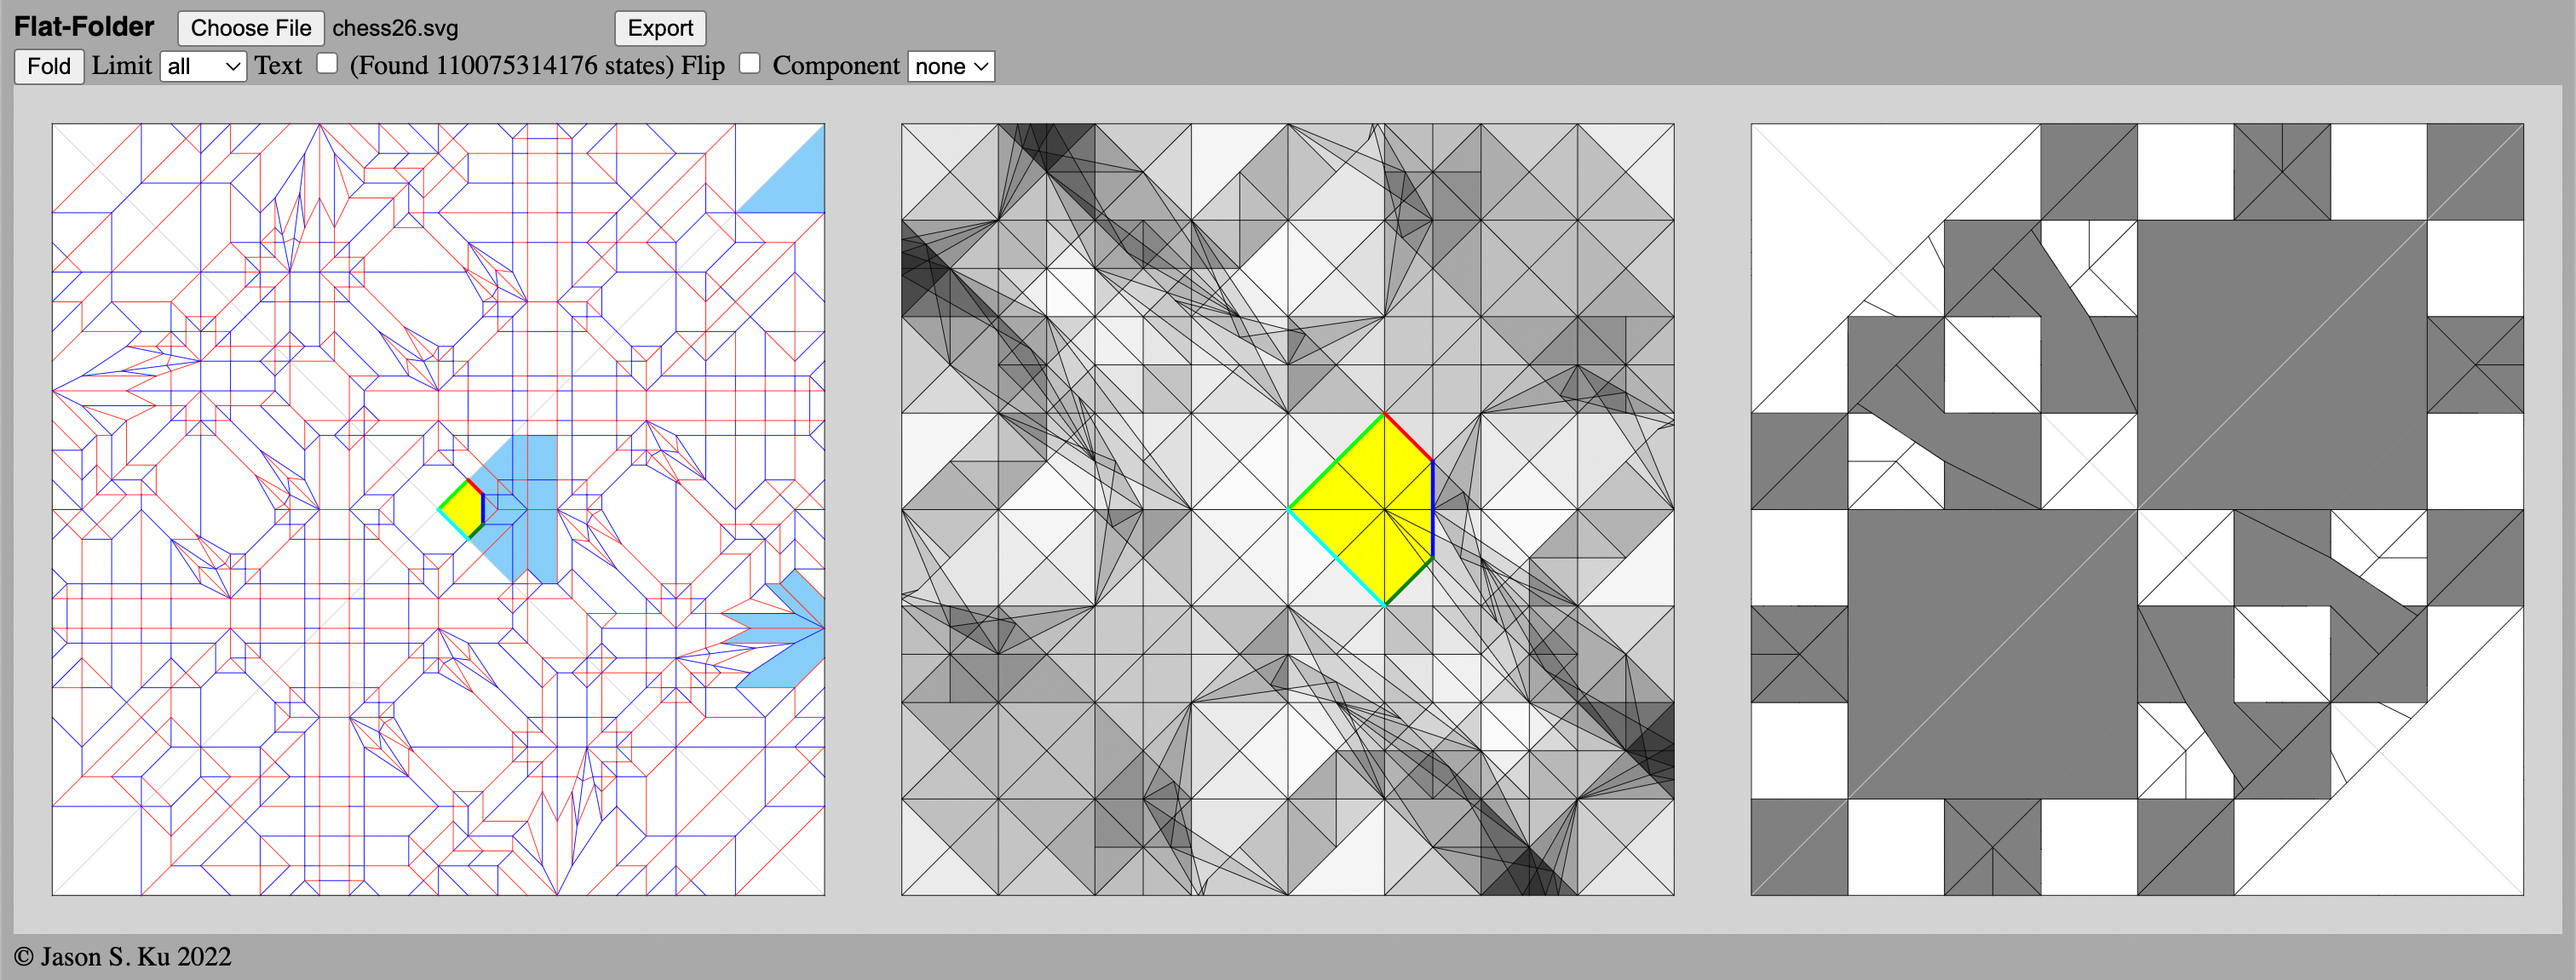
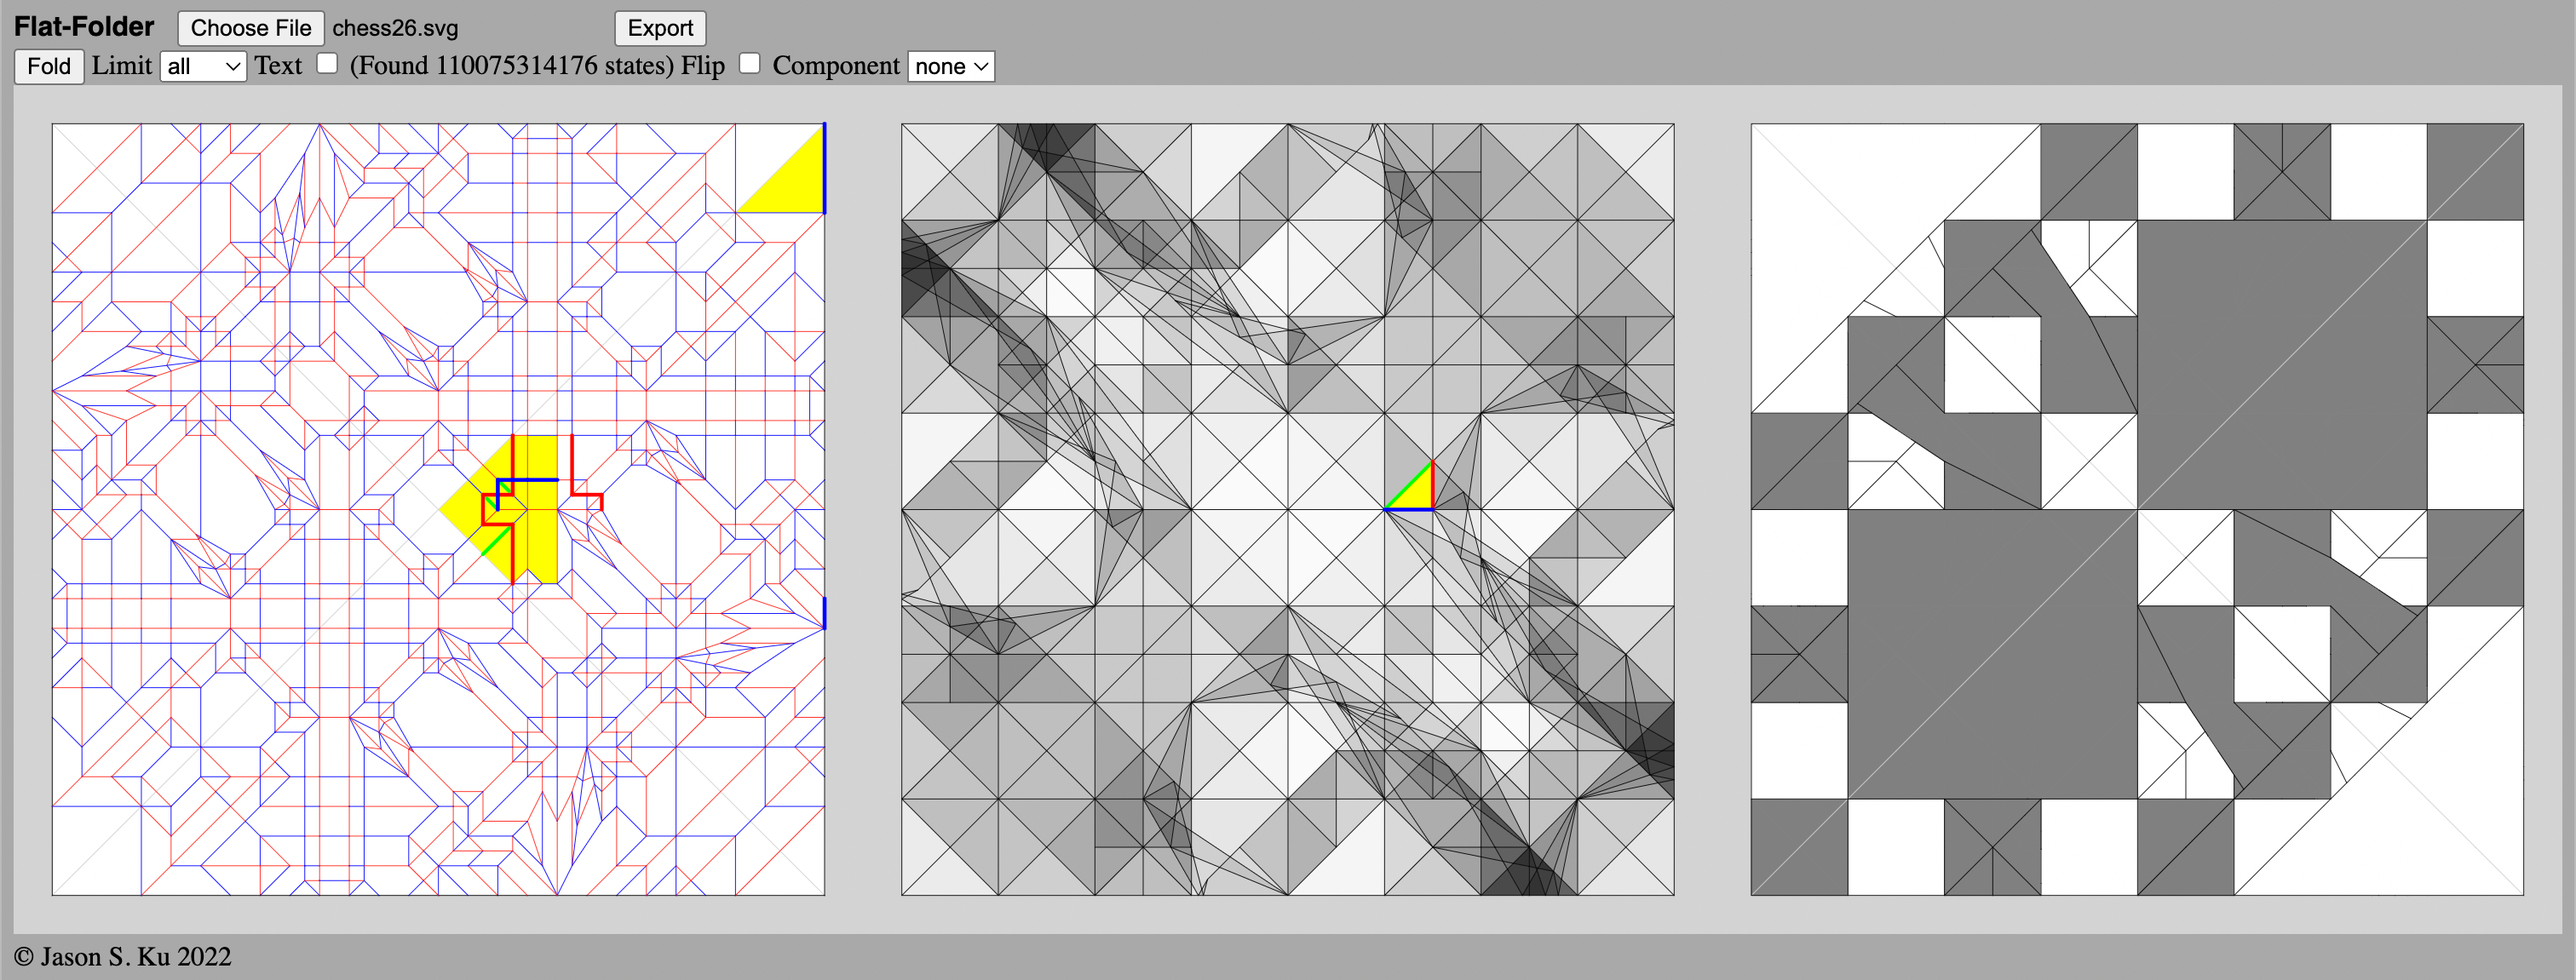
more image linking

diff --git a/README.md b/README.md
@@ -65,32 +65,39 @@ both assigned and unassigned.
 5. After computing the overlap graph:
     - Flat-Folder will replace the x-ray view with the overlap graph.
 
-    ![after folded](./img/05.png)
+    ![after folded](./img/04.png)
 
     - Selecting the "Text" option will now also draw index labels for all the 
       cells, segments, and points in the overlap graph.
 
-    ![text after folded](./img/06.png)
+    ![text after folded](./img/05.png)
 
     - Clicking on a cell in the overlap graph will highlight:
         - the faces of the crease pattern that overlap the cell (yellow), and
         - the edges of the crease pattern that overlap the segments bounding
           the cell.
+
+    ![clicking a cell](./img/06.png)
+
     - Clicking on a face of the crease pattern will highlight:
         - the cells of the overlap graph that overlap the face (yellow),
         - the segments of the overlap graph that overlap the edges bounding
           the face, and
-        - the other faces of the crease pattern that overlap the selected
-          face in the folding (blue). 
-            - Each blue face corresponds to a faceOrder variable (the yellow
-              and blue faces overlap, so much be assigned an order).
-            - Clicking on one of the blue faces will highlight the
-              features of the corresponding faceOrder variable:
-                - its two faces (yellow),
-                - its taco-taco constraints (green),
-                - its taco-tortilla constraints (red),
-                - its tortilla-tortilla constraints (orange), and
-                - its transitivity constraints (blue).
+        - the other faces of the crease pattern that overlap the selected face
+          in the folding (blue). Each blue face corresponds to a faceOrder
+          variable (the yellow and blue faces overlap, so much be assigned an order).
+
+        ![clicking a face](./img/07.png)
+
+        - Clicking on one of the blue faces will highlight the
+          features of the corresponding faceOrder variable:
+            - its two faces (yellow),
+            - its taco-taco constraints (green),
+            - its taco-tortilla constraints (red),
+            - its tortilla-tortilla constraints (orange), and
+            - its transitivity constraints (blue).
+
+        ![clicking two overlapping faces](./img/08.png)
 
 6. After computing solutions for all components:
     - Flat-Folder will display how many valid flat-folded states were found.
